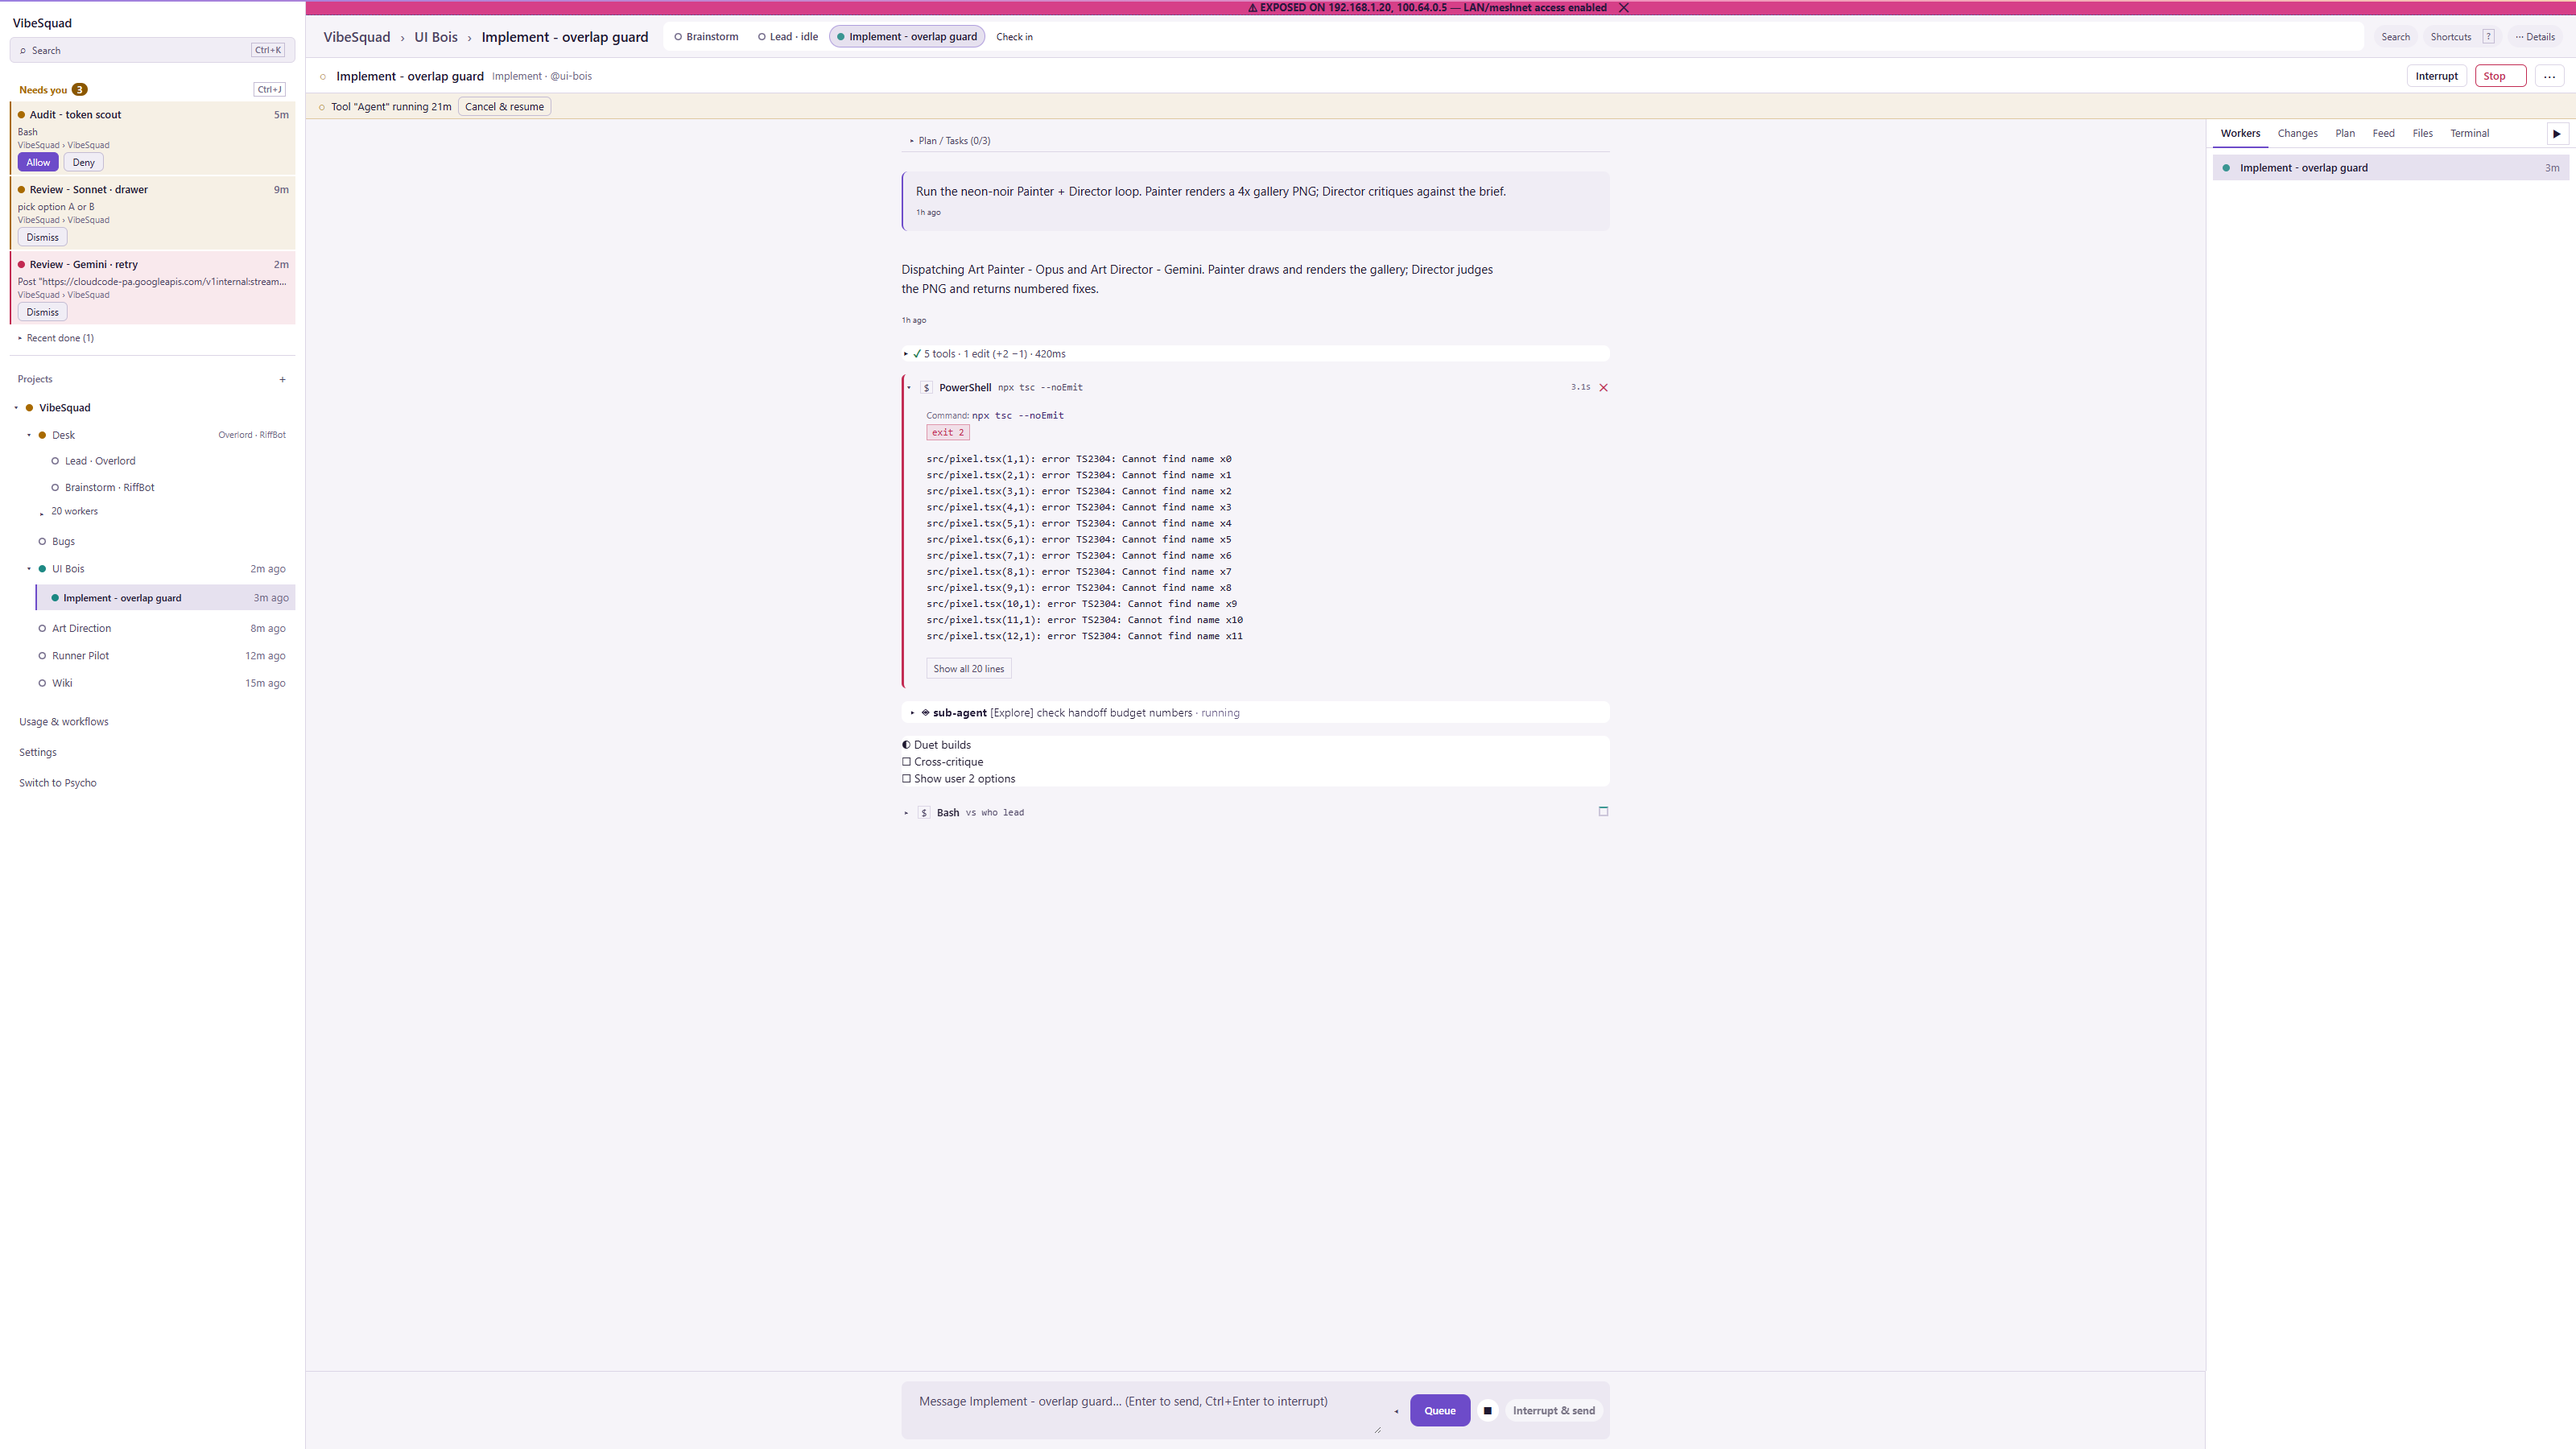
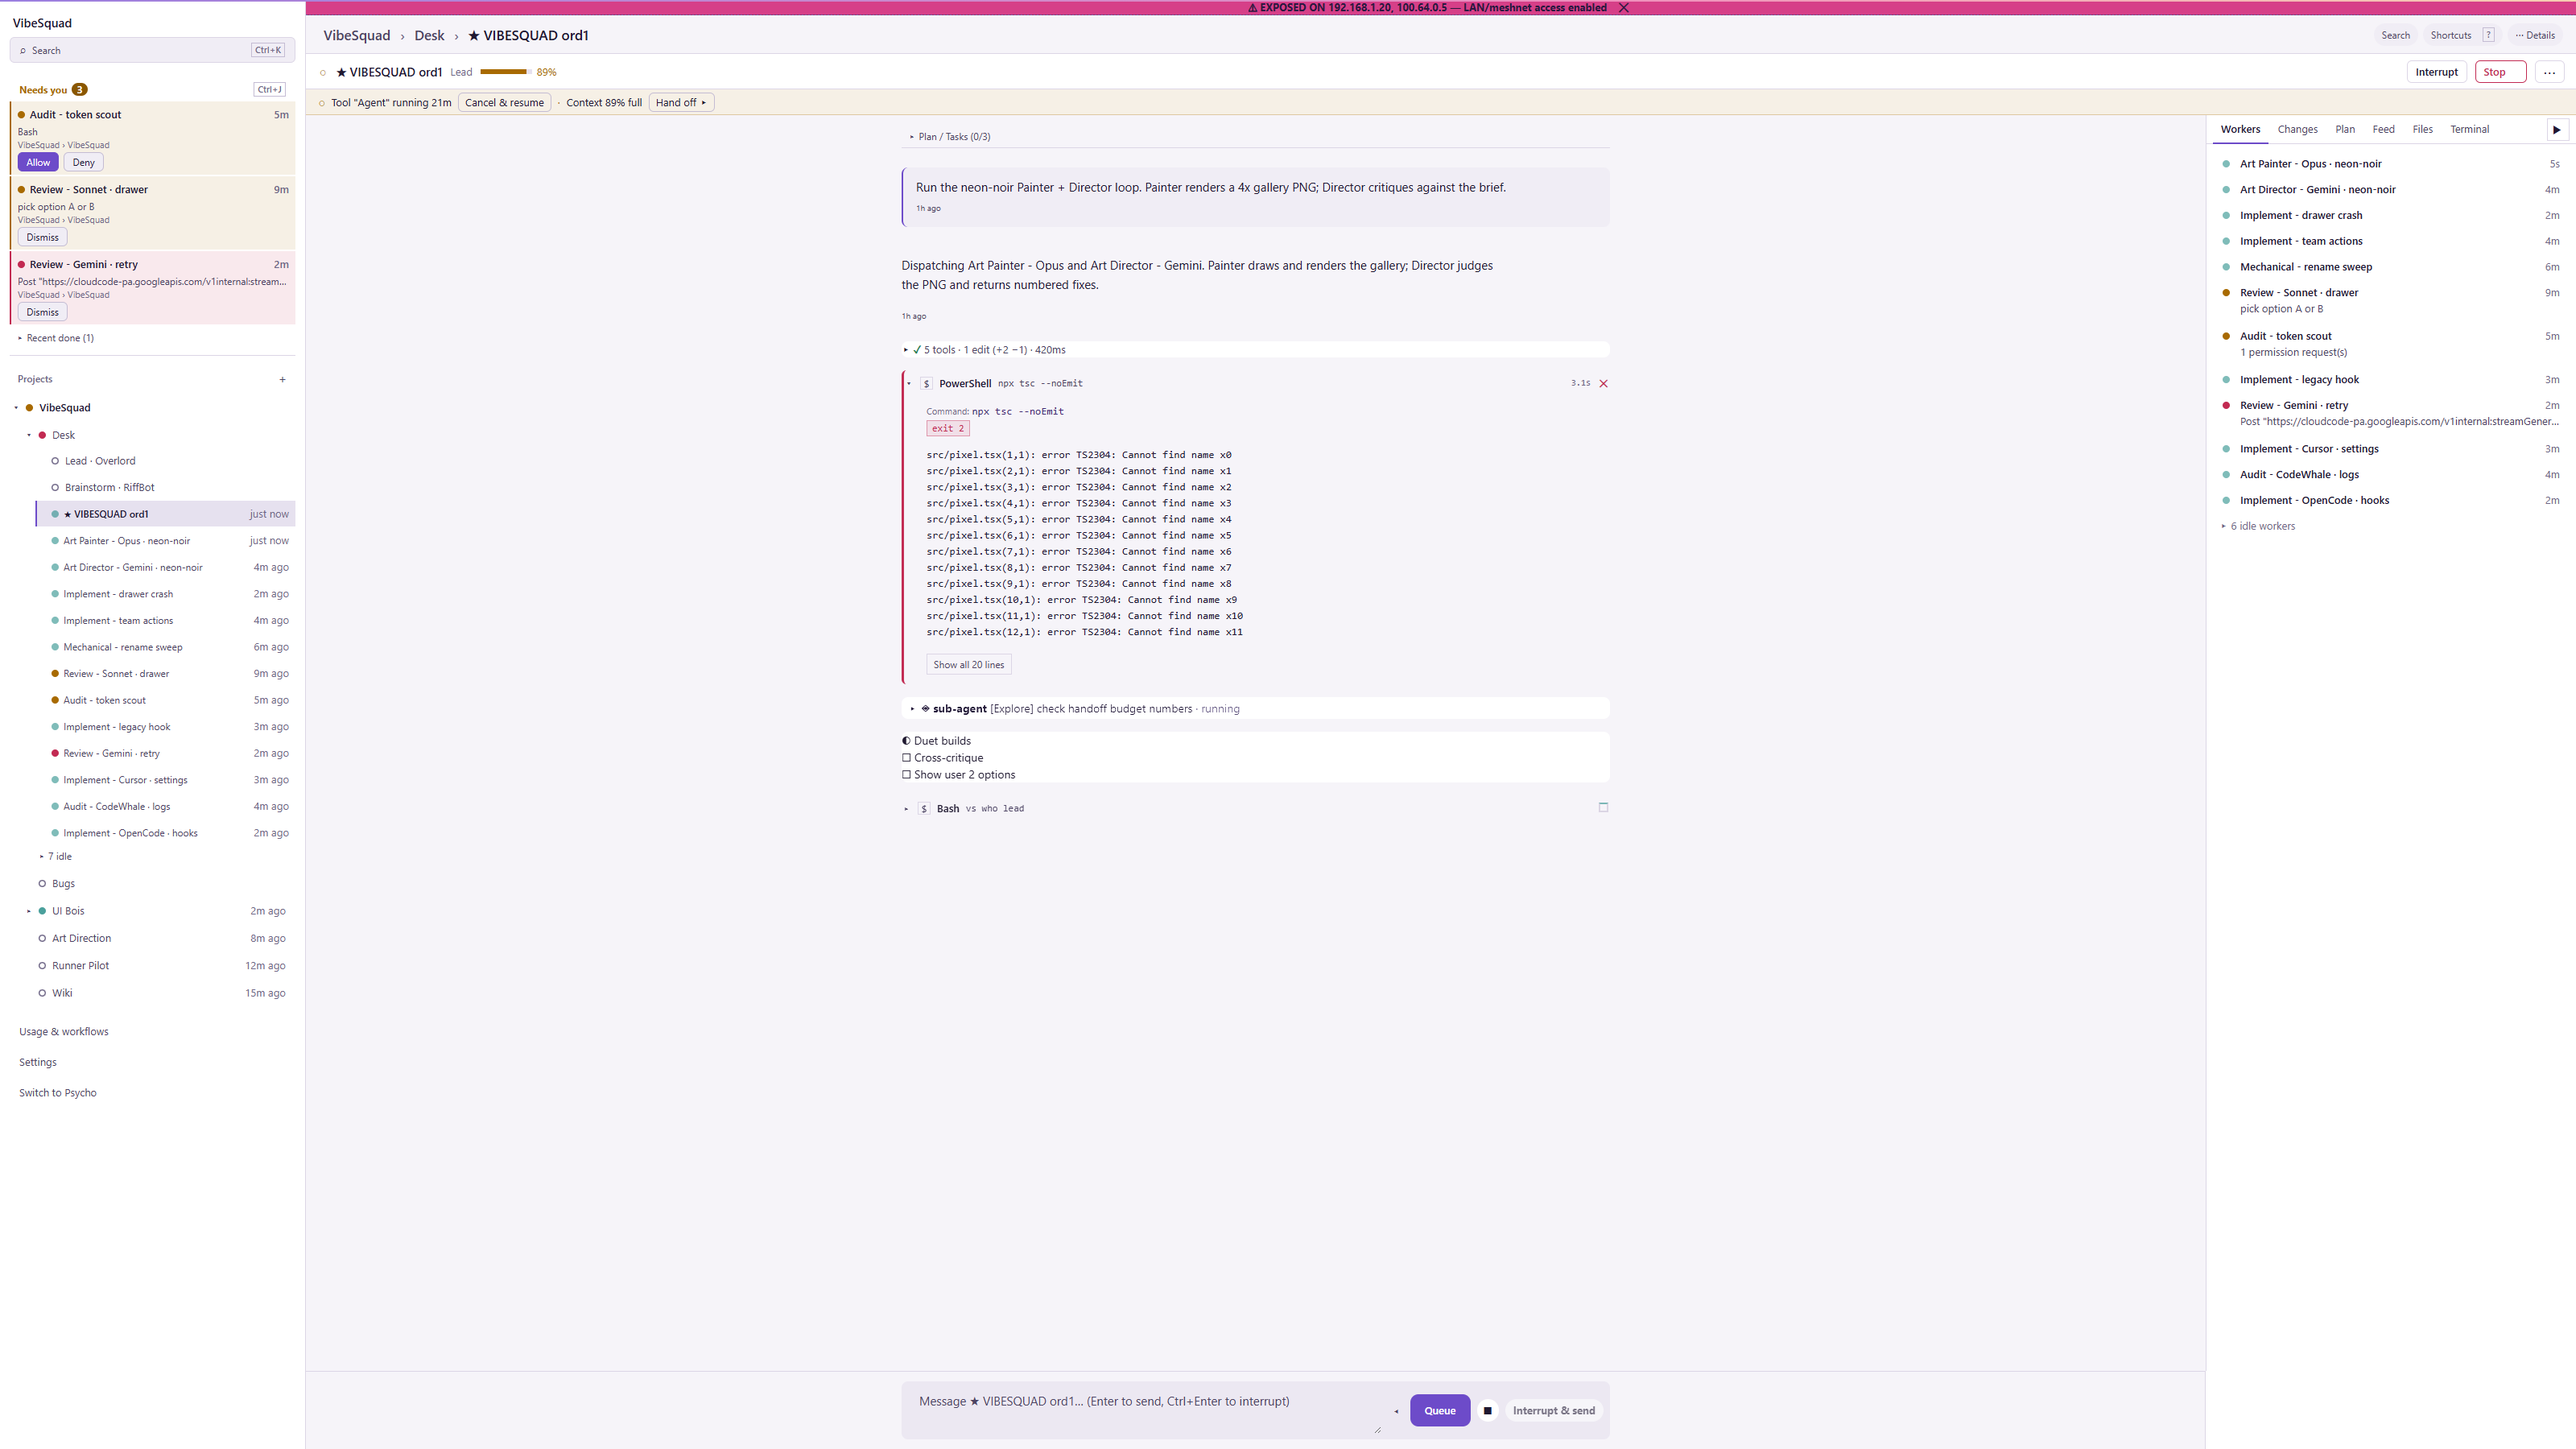
R2 fix round 2: Desk workers render like lane workers (live inline, idle folded), honest Desk row/table
Shared workerList for lanes and Desk; idle fold carries worst-state badge; Overview Desk row counts folded workers; table order matches tree; Desk dot worst-state tint; Desk sub-label from who is live. Removes boring-desk-workers-toggle (tests updated; not referenced by scripts/ui-clicks.mjs).

diff --git a/src/BoringAde.tsx b/src/BoringAde.tsx
@@ -172,6 +172,7 @@ export function boringSidebarModel(view: TeamView | undefined, now = Date.now())
     status: z.member?.agent.status ?? "none",
     needsYou: z.member?.attention && z.member.attention.tone !== "finished" ? 1 : 0,
     age: formatTimestamp(z.member?.agent.updatedAt, "relative", now),
+    updatedAt: z.member?.agent.updatedAt ?? null,
   });
   // A feature lane whose id is the project id duplicates the hub: fold its members into the Desk instead of a second row.
   const deskPins = (view ? pinsForSquad(view).pinned : []).filter((p) => !isHubPin(p) && p.lane.id === view?.team.id);
@@ -274,6 +275,7 @@ export type LaneTableRow = {
   age: string;
   sortAge: number;
 };
+const zones0 = (model: ReturnType<typeof boringSidebarModel>, k: "overlord" | "riffbot") => (model.core[k].updatedAt ? ({ agent: { updatedAt: model.core[k].updatedAt } } as unknown as Pin["lead"]) : null);
 const timeOf = (iso?: string | null) => { const t = Date.parse(iso ?? ""); return Number.isNaN(t) ? 0 : t; };
 /** S9: one dense row per lane, urgency-sorted (needs you › running › most recent). The Project desk rows follow the lanes. */
 export function boringLaneTableRows(
@@ -303,14 +305,14 @@ export function boringLaneTableRows(
   // R2.6: the hub is ONE Desk row (Lead = Overlord, Brainstorm = RiffBot), then Bugs.
   const deskRow: LaneTableRow = {
     key: "_desk", kind: "desk", laneId: "_desk", label: "Desk", code: "", brainstorm: riffbot.status, lead: overlord.status,
-    workers: workerSummary(model.core.deskWorkers), needsYou: model.hubNeedsYou, running: [overlord.status, riffbot.status].filter((x) => x === "running").length,
-    lastEvent: "", age: overlord.age || riffbot.age, sortAge: 0,
+    workers: workerSummary(model.core.deskWorkers), needsYou: model.hubNeedsYou, running: [overlord.status, riffbot.status].filter((x) => x === "running").length + model.core.deskWorkers.filter((w) => w.agent.status === "running").length,
+    lastEvent: "", age: boringConversationAge({ brainstorm: zones0(model, "riffbot"), lead: zones0(model, "overlord"), workers: model.core.deskWorkers }) || overlord.age || riffbot.age, sortAge: 0,
   };
   const bugsRow: LaneTableRow = {
     key: "_bugs", kind: "desk", laneId: "_bugs", label: bugs.label, code: "", brainstorm: "—", lead: bugs.leadRunning ? "running" : "none",
     workers: workerSummary(bugs.pin?.workers ?? []), needsYou: bugs.needsYou, running: bugs.leadRunning ? 1 : 0, lastEvent: "", age: bugs.age, sortAge: 0,
   };
-  return [...lanes, deskRow, bugsRow];
+  return [deskRow, bugsRow, ...lanes];
 }
 
 type Props = {
@@ -341,7 +343,6 @@ export function BoringApp({ views, view, onSelectSquad, onOpenPin, onSpinUpPin, 
   const [projectOpen, setProjectOpen] = useState<Record<string, boolean>>({});
   const [laneOpen, setLaneOpen] = useState<Record<string, boolean>>({});
   const [deskOpen, setDeskOpen] = useState<Record<string, boolean>>({});
-  const [deskWorkersOpen, setDeskWorkersOpen] = useState<Record<string, boolean>>({});
   const [idleWorkersOpen, setIdleWorkersOpen] = useState<Record<string, boolean>>({});
   const [detailsOpen, setDetailsOpen] = useState(false);
   const [overviewTab, setOverviewTab] = useState<OverviewTab>("overview");
@@ -422,7 +423,10 @@ export function BoringApp({ views, view, onSelectSquad, onOpenPin, onSpinUpPin, 
     setProjectOpen((o) => ({ ...o, [tid]: true }));
     if (s.laneId === "_overlord" || s.laneId === "_riffbot" || s.laneId === "_desk") {
       setDeskOpen((o) => ({ ...o, [tid]: true }));
-      if (s.role === "worker") setDeskWorkersOpen((o) => ({ ...o, [tid]: true }));
+      if (s.role === "worker") {
+        const w = boringSidebarModel(v).core.deskWorkers.find((x) => x.agent.id === id);
+        if (w && !boringWorkerIsLive(w)) setIdleWorkersOpen((o) => ({ ...o, [`${tid}/_desk`]: true }));
+      }
       return;
     }
     const key = `${tid}/${s.laneId}`;
@@ -575,15 +579,32 @@ export function BoringApp({ views, view, onSelectSquad, onOpenPin, onSpinUpPin, 
       <span className="boring-conv-age">{formatTimestamp(w.agent.updatedAt, "relative")}</span>
     </button>
   );
+  /** Workers of a lane or the Desk: live + attention rows inline, idle ones folded into "▸ N idle" (collapsed fold carries the worst-state badge). */
+  const workerList = (v: TeamView, pin: Pin, laneId: string, workers: Pin["workers"], key: string, listId: string, idleId: string) => {
+    const live = workers.filter(boringWorkerIsLive);
+    const idle = workers.filter((w) => !boringWorkerIsLive(w));
+    const idleOpen = Boolean(idleWorkersOpen[key]);
+    return (
+      <div className="boring-worker-list" data-testid={listId}>
+        {live.map((w) => workerRow(v, pin, laneId, w))}
+        {idle.length > 0 && (
+          <>
+            <button type="button" className="boring-idle-toggle boring-worker-idle" data-testid={idleId} aria-expanded={idleOpen} onClick={() => setIdleWorkersOpen((o) => ({ ...o, [key]: !idleOpen }))}>
+              <span className="boring-idle-chev" aria-hidden="true">{idleOpen ? "▾" : "▸"}</span>{idle.length} idle
+              {!idleOpen && badge(idle.filter(workerNeedsYou).length, idle.some(memberErr))}
+            </button>
+            {idleOpen && idle.map((w) => workerRow(v, pin, laneId, w))}
+          </>
+        )}
+      </div>
+    );
+  };
   /** One lane shape for Bugs and every feature lane: chevron column, dot, name, collapsed badge; workers under the chevron. */
   const laneRow = (v: TeamView, c: { laneId: string; name: string; code: string; pin: Pin | null; status: string; needsYou: number; err: boolean; age: string; titleTestId?: string; onOpen: () => void }) => {
     const key = `${v.team.id}/${c.laneId}`;
     const isSel = sel.teamId === v.team.id && sel.laneId === c.laneId;
     const open = laneOpen[key] ?? isSel;
     const workers = c.pin?.workers ?? [];
-    const live = workers.filter(boringWorkerIsLive);
-    const idle = workers.filter((w) => !boringWorkerIsLive(w));
-    const idleOpen = Boolean(idleWorkersOpen[key]);
     return (
       <div key={c.laneId} className={`boring-conv-row ${isOn(v, `lane:${c.laneId}`) ? "on" : ""}`} data-testid={`boring-conv-${c.laneId}`}>
         <div className="boring-conv-line">
@@ -598,19 +619,7 @@ export function BoringApp({ views, view, onSelectSquad, onOpenPin, onSpinUpPin, 
             {!open && badge(c.needsYou, c.err)}
           </button>
         </div>
-        {open && c.pin && workers.length > 0 && (
-          <div className="boring-worker-list" data-testid={`boring-workers-${c.laneId}`}>
-            {live.map((w) => workerRow(v, c.pin!, c.laneId, w))}
-            {idle.length > 0 && (
-              <>
-                <button type="button" className="boring-idle-toggle boring-worker-idle" data-testid={`boring-workers-idle-${c.laneId}`} aria-expanded={idleOpen} onClick={() => setIdleWorkersOpen((o) => ({ ...o, [key]: !idleOpen }))}>
-                  <span className="boring-idle-chev" aria-hidden="true">{idleOpen ? "▾" : "▸"}</span>{idle.length} idle
-                </button>
-                {idleOpen && idle.map((w) => workerRow(v, c.pin!, c.laneId, w))}
-              </>
-            )}
-          </div>
-        )}
+        {open && c.pin && workers.length > 0 && workerList(v, c.pin, c.laneId, workers, key, `boring-workers-${c.laneId}`, `boring-workers-idle-${c.laneId}`)}
       </div>
     );
   };
@@ -631,16 +640,17 @@ export function BoringApp({ views, view, onSelectSquad, onOpenPin, onSpinUpPin, 
     const inDesk = sel.teamId === v.team.id && (sel.laneId === "_overlord" || sel.laneId === "_riffbot" || sel.laneId === "_desk");
     const open = deskOpen[key] ?? inDesk;
     const hw = m.core.deskWorkers;
-    const hwOpen = deskWorkersOpen[key] ?? (inDesk && sel.role === "worker");
     const deskRunning = m.core.overlord.status === "running" || m.core.riffbot.status === "running" ? "running" : "idle";
+    const liveNames = [m.core.overlord.agentId && m.core.overlord.status !== "none" ? "Overlord" : null, m.core.riffbot.agentId && m.core.riffbot.status !== "none" ? "RiffBot" : null].filter(Boolean).join(" · ");
+    const deskGlyph = m.deskErr ? "error" : m.hubNeedsYou > 0 ? "needs-you" : null;
     return (
       <div key="desk" className="boring-desk-block" data-testid={suffix(v, "boring-desk")}>
         <div className="boring-conv-line">
           {chevronCol(open, () => setDeskOpen((o) => ({ ...o, [key]: !open })), "Desk", suffix(v, "boring-desk-toggle"))}
           <button type="button" className="boring-core-row boring-desk-row" aria-expanded={open} data-testid={suffix(v, "boring-desk-row")} onClick={() => setDeskOpen((o) => ({ ...o, [key]: !open }))}>
-            <span className={`boring-dot ${deskRunning} ${glyphCls(deskRunning, m.hubNeedsYou > 0 ? "needs-you" : null)}`} />
+            <span className={`boring-dot ${deskRunning} ${glyphCls(deskRunning, deskGlyph)}`} />
             <span className="boring-row-label">Desk</span>
-            <span className="boring-desk-sub">Overlord · RiffBot</span>
+            {liveNames && <span className="boring-desk-sub">{liveNames}</span>}
             {!open && badge(m.hubNeedsYou, m.deskErr)}
           </button>
         </div>
@@ -648,15 +658,7 @@ export function BoringApp({ views, view, onSelectSquad, onOpenPin, onSpinUpPin, 
           <div className="boring-desk-children">
             {coreRow(v, "boring-core-overlord", "desk:lead", m.core.overlord.label, m.core.overlord.status, m.core.overlord.needsYou, m.core.overlord.age, () => pickCore("_overlord", m.core.overlord.agentId, v.team.id), memberAgent(m.core.overlord.agentId))}
             {coreRow(v, "boring-core-riffbot", "desk:brainstorm", m.core.riffbot.label, m.core.riffbot.status, m.core.riffbot.needsYou, m.core.riffbot.age, () => pickCore("_riffbot", m.core.riffbot.agentId, v.team.id), memberAgent(m.core.riffbot.agentId))}
-            {hw.length > 0 && hubPinV && (
-              <div className="boring-conv-line boring-desk-workers">
-                {chevronCol(hwOpen, () => setDeskWorkersOpen((o) => ({ ...o, [key]: !hwOpen })), "hub workers")}
-                <button type="button" className="boring-idle-toggle boring-worker-idle" data-testid={suffix(v, "boring-desk-workers-toggle")} aria-expanded={hwOpen} onClick={() => setDeskWorkersOpen((o) => ({ ...o, [key]: !hwOpen }))}>
-                  {hw.length} {hw.length === 1 ? "worker" : "workers"}
-                </button>
-              </div>
-            )}
-            {hwOpen && hubPinV && hw.length > 0 && <div className="boring-worker-list" data-testid={suffix(v, "boring-desk-workers")}>{hw.map((w) => workerRow(v, hubPinV, "_desk", w))}</div>}
+            {hw.length > 0 && hubPinV && workerList(v, hubPinV, "_desk", hw, `${v.team.id}/_desk`, suffix(v, "boring-desk-workers"), suffix(v, "boring-desk-workers-idle"))}
           </div>
         )}
       </div>

diff --git a/src/boring.css b/src/boring.css
@@ -1132,7 +1132,7 @@ html[data-vibe="boring"] .boring-desk-sub { margin-left: auto; font-size: var(--
 html[data-vibe="boring"] .boring-conv-row.on:not(:has(.boring-worker-row.on)) > .boring-conv-line { background: var(--surface-3); box-shadow: inset 2px 0 0 var(--accent); border-radius: 6px; }
 html[data-vibe="boring"] .boring-worker-list { padding-left: 16px; } /* children of the lane: same 16px level step as the Desk members */
 html[data-vibe="boring"] .boring-worker-row { padding-left: 20px; } /* 16px chevron slot + 4px, so the worker dot sits one level right of the lane dot */
-html[data-vibe="boring"] .boring-desk-workers .boring-idle-toggle { min-height: 24px; padding-left: 4px; }
+html[data-vibe="boring"] .boring-desk-children > .boring-worker-list { padding-left: 0; } /* Desk workers sit at the Overlord/RiffBot level; the idle fold chevron shares their 16px column */
 html[data-vibe="boring"] .boring-worker-list > .boring-idle-toggle { display: inline-flex; align-items: center; gap: 0; min-height: 24px; padding: 2px 8px 2px 0; }
 html[data-vibe="boring"] .boring-idle-toggle .boring-idle-chev { flex: 0 0 16px; width: 16px; text-align: center; }
 html[data-vibe="boring"] .boring-badge.err { background: var(--st-err); color: var(--on-accent); }
